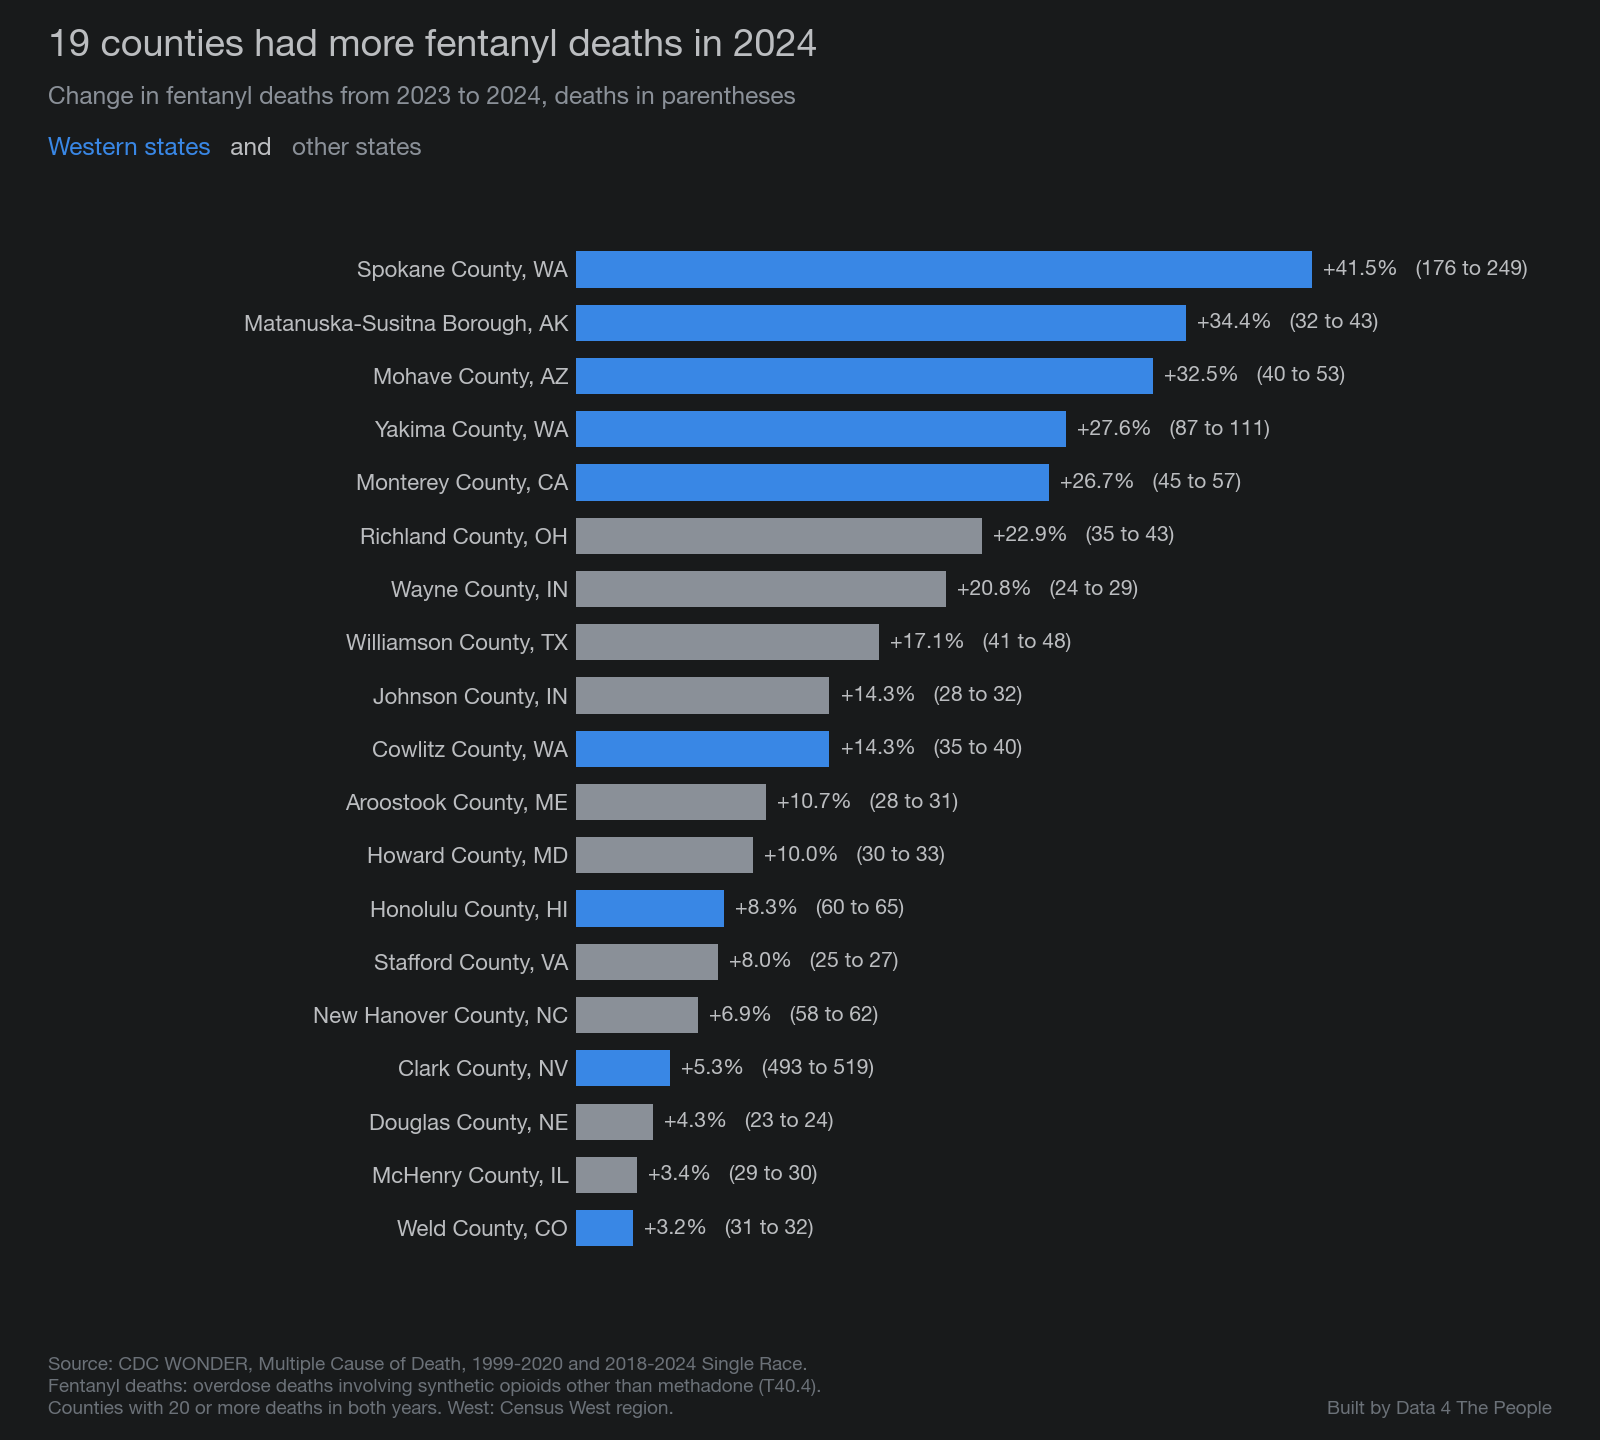
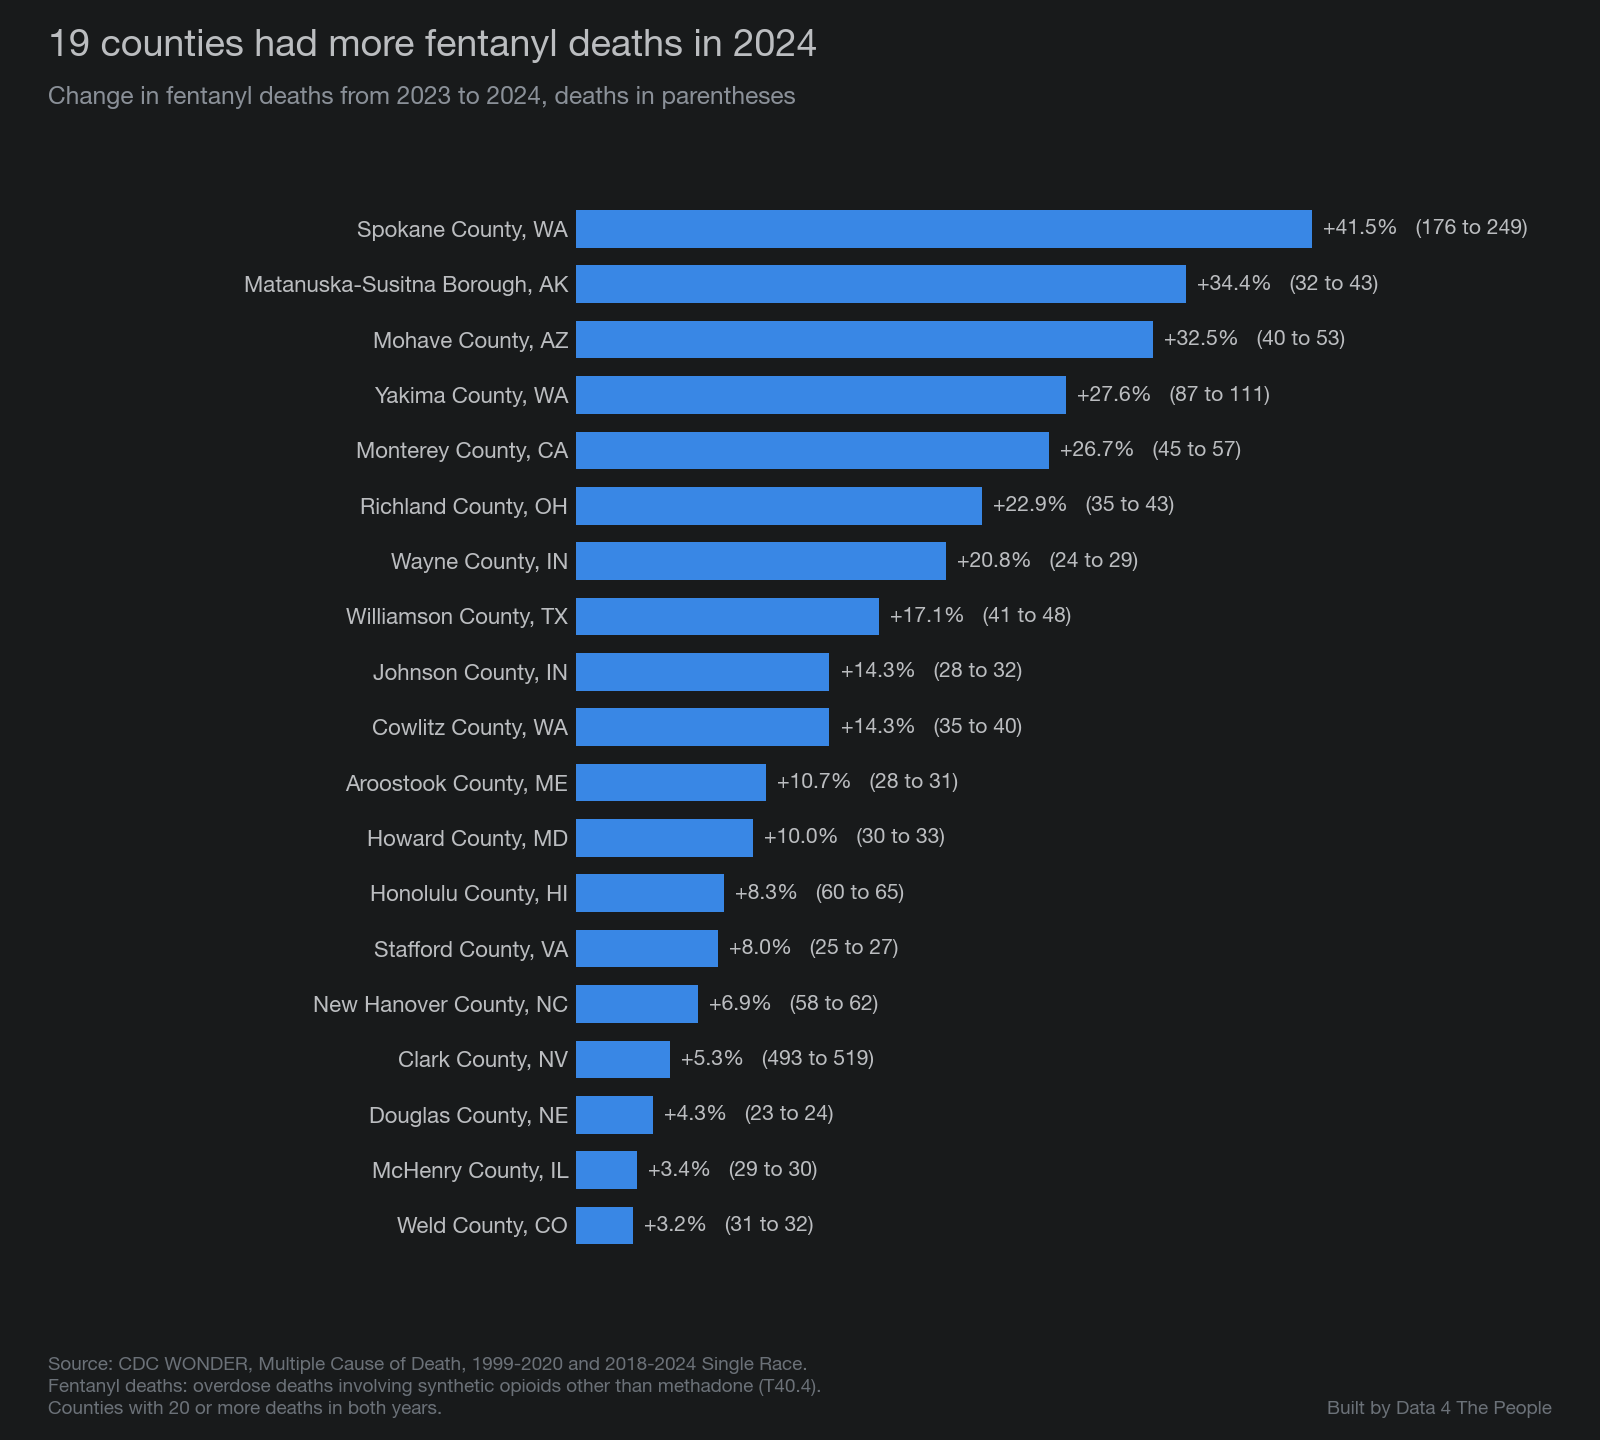
fentanyl-deaths-by-county: West comparison removed from text and charts

diff --git a/scripts/post_charts.py b/scripts/post_charts.py
@@ -30,8 +30,6 @@ BLUE, YELLOW, MAGENTA = "#3987e5", "#c98500", "#d55181"  # the validated dark tr
 CREDIT = "Built by Data 4 The People"
 SRC = "Source: CDC WONDER, Multiple Cause of Death, 1999-2020 and 2018-2024 Single Race."
 FEN_NOTE = "Fentanyl deaths: overdose deaths involving synthetic opioids other than methadone (T40.4)."
-WEST_FIPS = {"02", "04", "06", "08", "15", "16", "30", "32", "35", "41", "49", "53", "56"}  # same states as WEST
-WEST = {"AK", "AZ", "CA", "CO", "HI", "ID", "MT", "NM", "NV", "OR", "UT", "WA", "WY"}  # Census West region
 
 mpl.rcParams.update({
     "figure.facecolor": SURFACE, "axes.facecolor": SURFACE, "savefig.facecolor": SURFACE,
@@ -179,14 +177,14 @@ def chart_peaks(n=10):
 # ---- 04: state change 2023 to 2024
 def chart_states():
     a, b = ix(2023), ix(2024)
-    st = sorted((((g["d"][b] - g["d"][a]) / g["d"][a] * 100, g["n"], fips in WEST_FIPS) for fips, g in D["states"].items()
+    st = sorted((((g["d"][b] - g["d"][a]) / g["d"][a] * 100, g["n"], None) for g in D["states"].values()
                  if g["d"][a] and g["d"][b]), reverse=True)
     missing = sorted(g["n"] for g in D["states"].values() if not (g["d"][a] and g["d"][b]))
     fig, ax = plt.subplots(figsize=(10, 13))
     fig.subplots_adjust(left=0.24, right=0.95, top=0.905, bottom=0.06)
     lo = min(p for p, _, _ in st)
     for k, (p, n, w) in enumerate(st):
-        ax.barh(k, p, height=0.7, color=BLUE if w else INK_DIM)
+        ax.barh(k, p, height=0.7, color=BLUE)
         ax.text(p - 0.8, k, f"{p:.1f}%", va="center", ha="right", fontsize=9, color=INK)
     ax.set_yticks(range(len(st)), [n for _, n, _ in st], fontsize=9.5, color=INK)
     ax.yaxis.tick_right(); ax.tick_params(axis="y", pad=4)
@@ -197,11 +195,10 @@ def chart_states():
     ax.axvline(0, color=INK_DIM, lw=0.8)
     ax.set_xticks([]); ax.spines["bottom"].set_visible(False); ax.spines["left"].set_visible(False)
     ax.tick_params(length=0)
-    fig.subplots_adjust(left=0.05, right=0.80, top=0.915, bottom=0.07)
+    fig.subplots_adjust(left=0.05, right=0.80, top=0.93, bottom=0.07)
     titleblock(fig, "Fentanyl deaths fell in every state with data for both years",
                "Change in fentanyl deaths from 2023 to 2024", y=0.985)
-    words(fig, 0.03, 0.935, [("Western states", BLUE), ("   and   ", INK), ("other states", INK_DIM)])
-    credit(fig, SRC + "\n" + FEN_NOTE + " West: Census West region.\nNot shown, to protect small county counts: "
+    credit(fig, SRC + "\n" + FEN_NOTE + "\nNot shown, to protect small county counts: "
            + ", ".join(missing) + ".")
     save(fig, "05-state-change-2024.png")
 
@@ -212,11 +209,11 @@ def chart_rose():
     up = [C[f] for f in C if pub(C[f], 2023) and pub(C[f], 2024) and C[f]["d"][b] > C[f]["d"][a]]
     up.sort(key=lambda g: -(g["d"][b] - g["d"][a]) / g["d"][a])
     fig, ax = plt.subplots(figsize=(10, 9))
-    fig.subplots_adjust(left=0.36, right=0.82, top=0.86, bottom=0.10)
+    fig.subplots_adjust(left=0.36, right=0.82, top=0.89, bottom=0.10)
     hi = max((g["d"][b] - g["d"][a]) / g["d"][a] * 100 for g in up)
     for k, g in enumerate(up):
         p = (g["d"][b] - g["d"][a]) / g["d"][a] * 100
-        ax.barh(k, p, height=0.68, color=BLUE if g["n"][-2:] in WEST else INK_DIM)
+        ax.barh(k, p, height=0.68, color=BLUE)
         ax.text(p + hi * 0.015, k, f"+{p:.1f}%   ({g['d'][a]:,} to {g['d'][b]:,})", va="center", fontsize=9.5,
                 color=INK)
     ax.set_yticks(range(len(up)), [g["n"] for g in up], fontsize=10, color=INK)
@@ -226,8 +223,7 @@ def chart_rose():
     ax.tick_params(length=0)
     titleblock(fig, f"{len(up)} counties had more fentanyl deaths in 2024",
                "Change in fentanyl deaths from 2023 to 2024, deaths in parentheses", y=0.98)
-    words(fig, 0.03, 0.905, [("Western states", BLUE), ("   and   ", INK), ("other states", INK_DIM)])
-    credit(fig, SRC + "\n" + FEN_NOTE + "\nCounties with 20 or more deaths in both years. West: Census West region.")
+    credit(fig, SRC + "\n" + FEN_NOTE + "\nCounties with 20 or more deaths in both years.")
     save(fig, "06-counties-rose-2024.png")
 
 

diff --git a/scripts/tieout_post.py b/scripts/tieout_post.py
@@ -22,7 +22,6 @@ html = (ROOT / "dist/index.html").read_text()
 D = json.loads(re.search(r"const D = (\{.*?\});\n", html, re.S).group(1))
 Y = D["years"]; ix = Y.index
 C = {f: g for f, g in D["counties"].items() if f in D["paths"]}
-WEST = {"AK", "AZ", "CA", "CO", "HI", "ID", "MT", "NM", "NV", "OR", "UT", "WA", "WY"}
 
 
 def table(p, delim):
@@ -197,7 +196,7 @@ big = ", ".join(f"{s[1]} ({pct(-s[0], 1)})" for s in st[:5])
 small = ", ".join(f"{s[1]} ({pct(-s[0], 1)})" for s in st[::-1][:5])
 check("The largest drops were in West Virginia (down 48.4%), Arkansas (46.6%), North Dakota (46.1%), Virginia (45.8%) and Wisconsin (45.7%)",
       *(f"{s[1]}" for s in st[:5]), *(pct(-s[0], 1) for s in st[:5]))
-check("The smallest were in the West: Nevada (down 4.9%), Alaska (6.9%), Utah (9.8%), Washington (13.5%) and Arizona (16.5%)",
+check("The smallest were in Nevada (down 4.9%), Alaska (6.9%), Utah (9.8%), Washington (13.5%) and Arizona (16.5%)",
       *(f"{s[1]}" for s in st[::-1][:5]), *(pct(-s[0], 1) for s in st[::-1][:5]))
 check("West Virginia fell most, 48.4%, then Arkansas, North Dakota, Virginia and Wisconsin. Nevada fell least, 4.9%",
       pct(-st[0][0], 1), pct(-st[-1][0], 1))
@@ -219,10 +218,9 @@ check("Overdose deaths that did not involve fentanyl fell 1.8%, from 32,231 to 3
       pct(((t(2023) - f(2023)) - (t(2024) - f(2024))) / (t(2023) - f(2023)) * 100, 1), n(t(2023) - f(2023)), n(t(2024) - f(2024)))
 
 # ---- counties that went the other way
-west = [k for k in rose if C[k]["n"][-2:] in WEST]
-check("Nineteen counties had more fentanyl deaths in 2024 than in 2023. Nine are in Western states, and three of those are in Washington")
-if (len(rose), len(west), sum(C[k]["n"].endswith(", WA") for k in west)) != (19, 9, 3):
-    bad.append(f"rose {len(rose)}, west {len(west)}")
+check("Nineteen counties had more fentanyl deaths in 2024 than in 2023", )
+if len(rose) != 19:
+    bad.append(f"rose {len(rose)}")
 spk = max(rose, key=lambda k: C[k]["d"][b] - C[k]["d"][a])
 check("Spokane County, Washington, had the largest increase, from 176 to 249 deaths (31.9 to 44.8 per 100,000)",
       str(C[spk]["d"][a]), str(C[spk]["d"][b]), f"{C[spk]['r'][a]:.1f}", f"{C[spk]['r'][b]:.1f}")
@@ -233,7 +231,6 @@ check("Clark County, Nevada, home to Las Vegas, had the most deaths of the group
 if C[clk]["n"] != "Clark County, NV":
     bad.append("Clark County is not the most deaths among the 19")
 check("Spokane County, Washington, rose most, 41.5% (176 to 249)", pct((C[spk]["d"][b] - C[spk]["d"][a]) / C[spk]["d"][a] * 100, 1))
-check("Nine of the 19 are in Western states")
 
 # ---- method
 tie = (ROOT / "TIEOUT.md").read_text()

diff --git a/posts/fentanyl-deaths-by-county/POST.md b/posts/fentanyl-deaths-by-county/POST.md
@@ -107,9 +107,9 @@ Here we count only counties with 20 or more fentanyl deaths in a year, the same 
 
 Fentanyl deaths fell from 72,776 in 2023 to 47,735 in 2024. The death rate fell 35.6%, more than for any other drug group CDC tracks ([CDC](https://www.cdc.gov/nchs/products/databriefs/db549.htm)).
 
-**Every state with numbers for both years fell.** That is 49 states, counting DC. Hawaii's 2024 total and New Hampshire's 2023 total are not shown, to protect small county counts. The largest drops were in West Virginia (down 48.4%), Arkansas (46.6%), North Dakota (46.1%), Virginia (45.8%) and Wisconsin (45.7%). The smallest were in the West: Nevada (down 4.9%), Alaska (6.9%), Utah (9.8%), Washington (13.5%) and Arizona (16.5%).
+**Every state with numbers for both years fell.** That is 49 states, counting DC. Hawaii's 2024 total and New Hampshire's 2023 total are not shown, to protect small county counts. The largest drops were in West Virginia (down 48.4%), Arkansas (46.6%), North Dakota (46.1%), Virginia (45.8%) and Wisconsin (45.7%). The smallest were in Nevada (down 4.9%), Alaska (6.9%), Utah (9.8%), Washington (13.5%) and Arizona (16.5%).
 
-![Bar chart of the change in fentanyl deaths from 2023 to 2024 in 49 states, counting DC. Every bar is a decline. Western states are in blue. West Virginia fell most, 48.4%, then Arkansas, North Dakota, Virginia and Wisconsin. Nevada fell least, 4.9%, then Alaska, Utah, Washington and Arizona, all Western states. Hawaii and New Hampshire are not shown.](images/05-state-change-2024.png)
+![Bar chart of the change in fentanyl deaths from 2023 to 2024 in 49 states, counting DC. Every bar is a decline. West Virginia fell most, 48.4%, then Arkansas, North Dakota, Virginia and Wisconsin. Nevada fell least, 4.9%, then Alaska, Utah, Washington and Arizona. Hawaii and New Hampshire are not shown.](images/05-state-change-2024.png)
 *Source: CDC WONDER, Multiple Cause of Death.*
 
 **Nearly every county fell too.** Of 435 counties with 20 or more fentanyl deaths in both 2023 and 2024, 411 (94.5%) had fewer deaths in 2024. Five were unchanged and 19 rose. With a lower bar, 10 or more deaths in both years, 639 of 706 counties (90.5%) fell.
@@ -120,14 +120,12 @@ Fentanyl deaths fell from 72,776 in 2023 to 47,735 in 2024. The death rate fell 
 
 ### The counties that went the other way
 
-Nineteen counties had more fentanyl deaths in 2024 than in 2023. Nine are in Western states, and three of those are in Washington.
+Nineteen counties had more fentanyl deaths in 2024 than in 2023. The chart below shows each of them.
 
-![Bar chart of the 19 counties with more fentanyl deaths in 2024 than 2023, counties with 20 or more deaths in both years. Spokane County, Washington, rose most, 41.5% (176 to 249), then Matanuska-Susitna Borough, Alaska, and Mohave County, Arizona. Nine of the 19 are in Western states.](images/06-counties-rose-2024.png)
+![Bar chart of the 19 counties with more fentanyl deaths in 2024 than 2023, counties with 20 or more deaths in both years. Spokane County, Washington, rose most, 41.5% (176 to 249), then Matanuska-Susitna Borough, Alaska, and Mohave County, Arizona.](images/06-counties-rose-2024.png)
 *Source: CDC WONDER, Multiple Cause of Death.*
 
 Spokane County, Washington, had the largest increase, from 176 to 249 deaths (31.9 to 44.8 per 100,000). Clark County, Nevada, home to Las Vegas, had the most deaths of the group, 519 in 2024.
-
-We did not find a source that explains why these counties, or the West as a whole, fell less.
 
 ### What may explain the drop
 

diff --git a/TIEOUT.md b/TIEOUT.md
@@ -45,7 +45,7 @@ None.
 
 Run `python3 scripts/tieout_post.py`.
 
-**Post numbers: 49 passages checked, 0 mismatches.**
+**Post numbers: 48 passages checked, 0 mismatches.**
 
 No mismatches.
 
@@ -121,6 +121,7 @@ Numbers in the post not recomputed here (cited to an outside source, a year or d
 - `2024`: ...![Bar chart of the change in fentanyl deaths from 2023 to 2024 in 49 states, counting DC. Every bar is...
 - `49`: ...![Bar chart of the change in fentanyl deaths from 2023 to 2024 in 49 states, counting DC. Every bar is a dec...
 - `10`: ...er deaths in 2024. Five were unchanged and 19 rose. With a lower bar, 10 or more deaths in both years, 639 of 70...
+- `19`: ...![Bar chart of the 19 counties with more fentanyl deaths in 2...
 - `2024`: ...![Bar chart of the 19 counties with more fentanyl deaths in 2024 than 2023, counties with 20 or more dea...
 - `2023`: ...![Bar chart of the 19 counties with more fentanyl deaths in 2024 than 2023, counties with 20 or more deaths in both...
 - `20`: ...9 counties with more fentanyl deaths in 2024 than 2023, counties with 20 or more deaths in both years. Spokane C...
